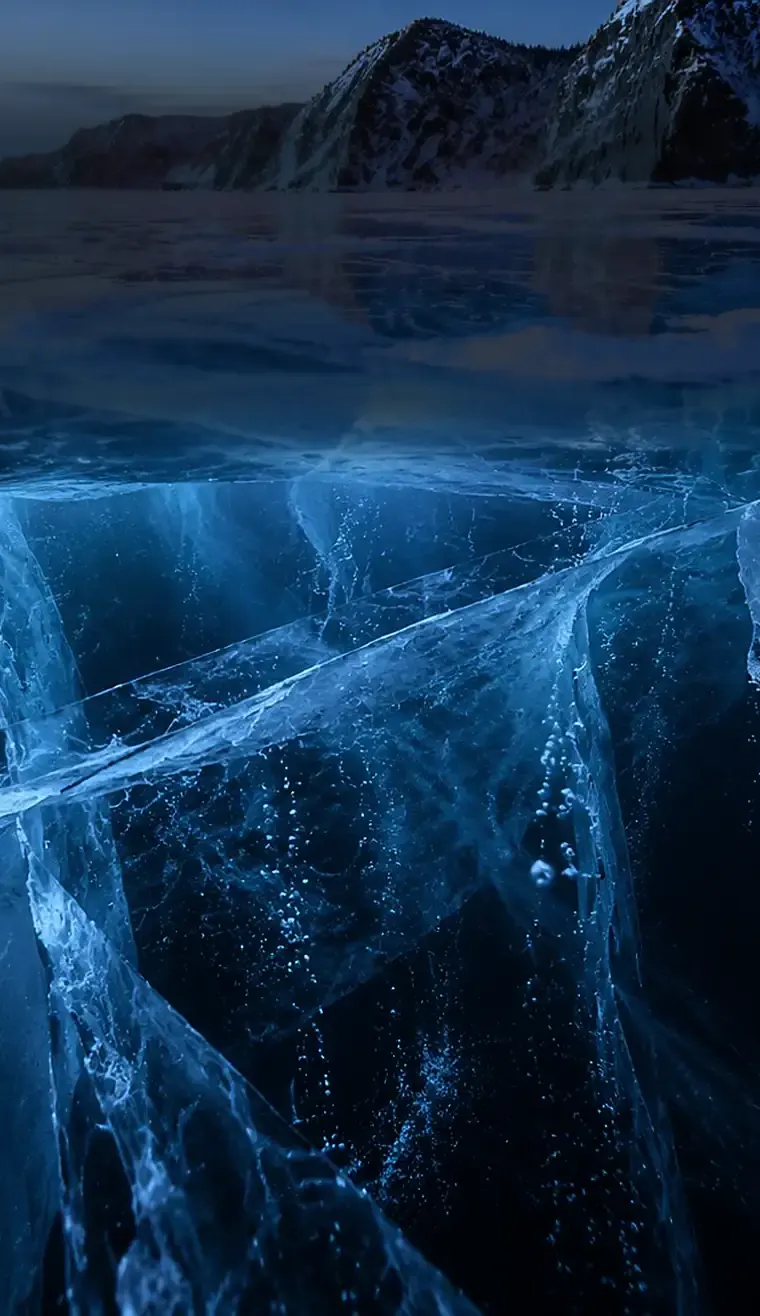
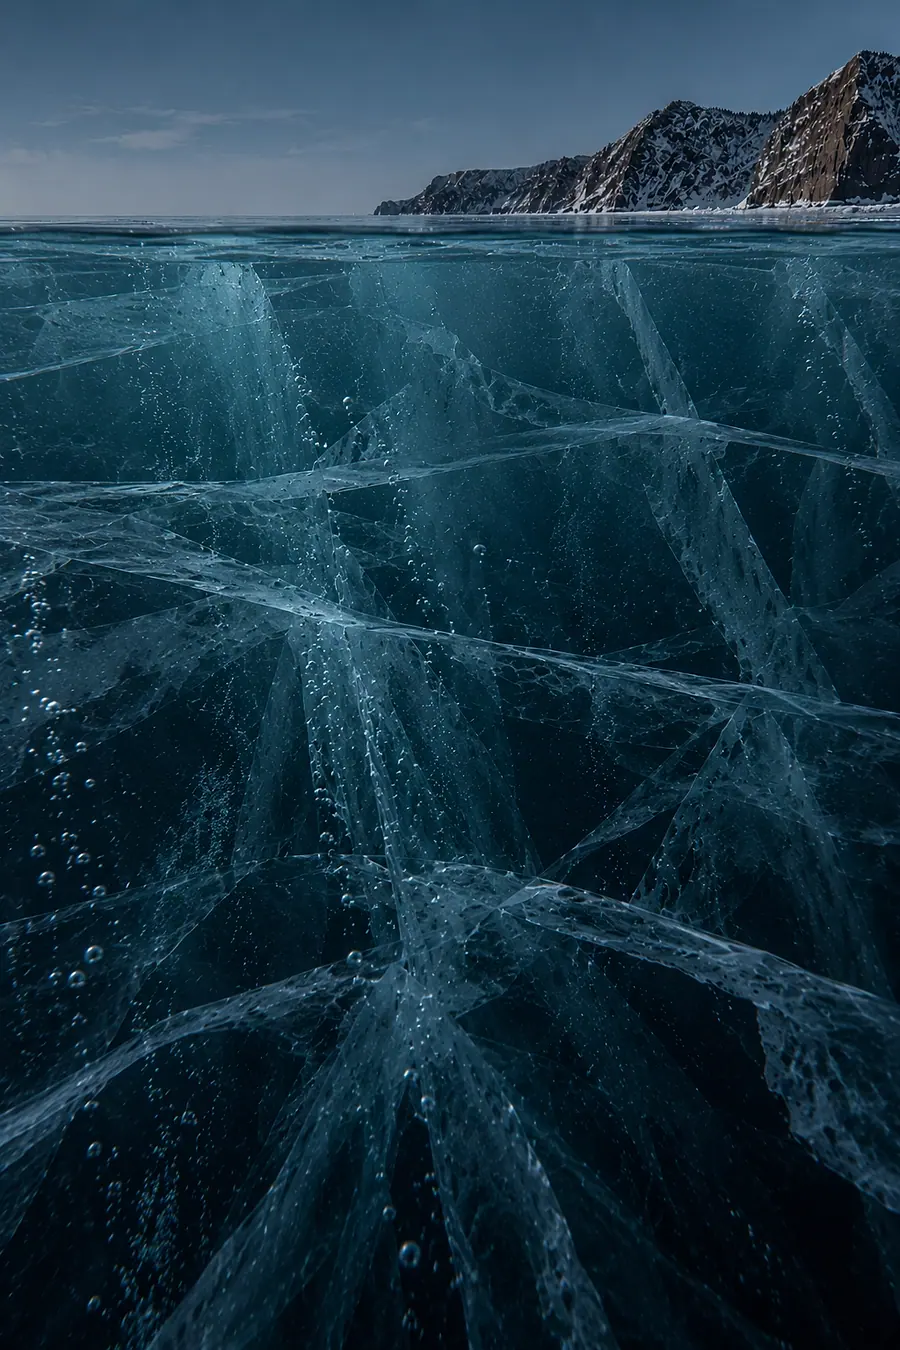
Первый экран: новое изображение высокого качества (приглушенные тона), версии для десктопа и телефона

diff --git a/src/styles/global.css b/src/styles/global.css
@@ -406,7 +406,7 @@ img, svg { display: block; max-width: 100%; }
 .hero-ice { position: relative; isolation: isolate; overflow: hidden; background: #04090F; color: #FFFFFF; height: clamp(560px, 92svh, 860px); }
 .hero-ice-bg { position: absolute; left: 0; right: 0; top: 0; height: 155%; transform-origin: 50% 0; animation: ice-descend 30s ease-in-out infinite alternate; will-change: transform; }
 .hero-ice-bg picture, .hero-ice-bg img { display: block; width: 100%; height: 100%; }
-.hero-ice-bg img { object-fit: cover; object-position: 50% 0; max-width: none; filter: saturate(.55) brightness(.82) contrast(.92); }
+.hero-ice-bg img { object-fit: cover; object-position: 50% 0; max-width: none; filter: brightness(.88); }
 .hero-ice-tint { position: absolute; inset: 0; background: linear-gradient(180deg, rgba(2, 12, 20, 0.1) 0%, rgba(2, 12, 20, 0.6) 100%); opacity: 0; animation: ice-tint 30s ease-in-out infinite alternate; }
 .hero-ice-shade { position: absolute; inset: 0; background:
   linear-gradient(180deg, rgba(3, 9, 15, 0.62) 0%, rgba(3, 9, 15, 0.38) 8%, rgba(3, 9, 15, 0.1) 22%, rgba(3, 9, 15, 0) 40%),
